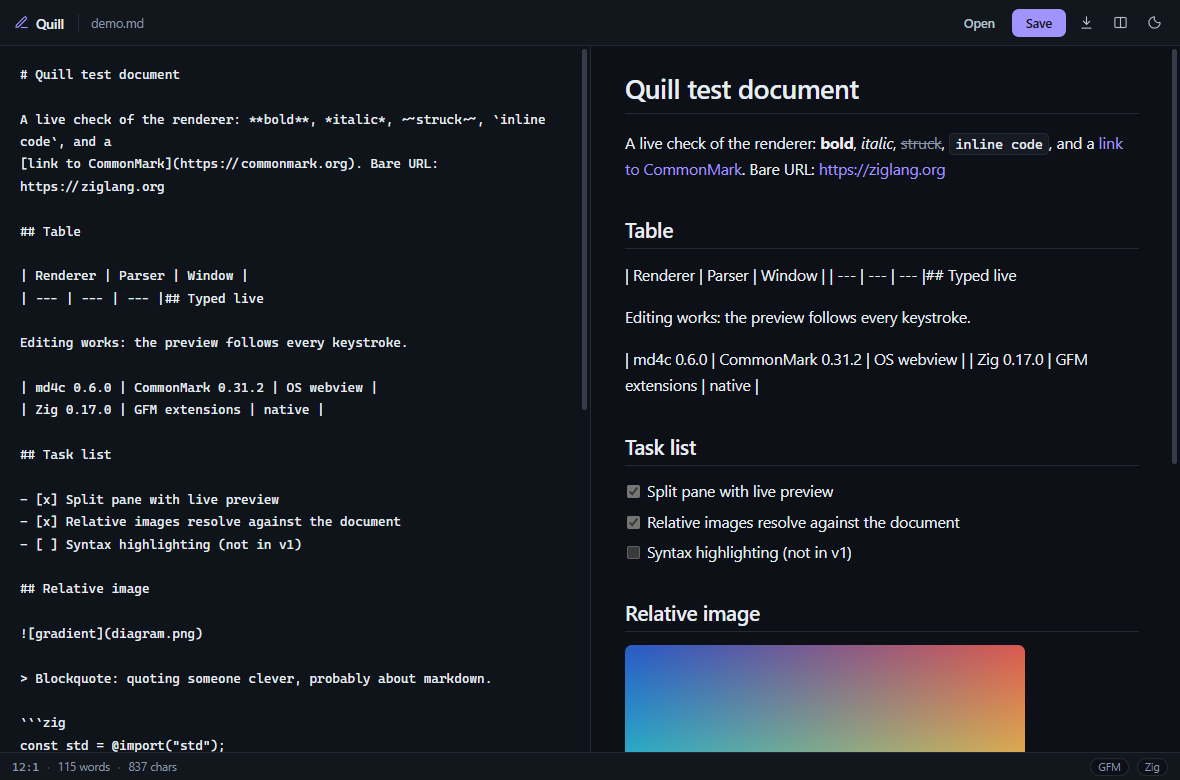
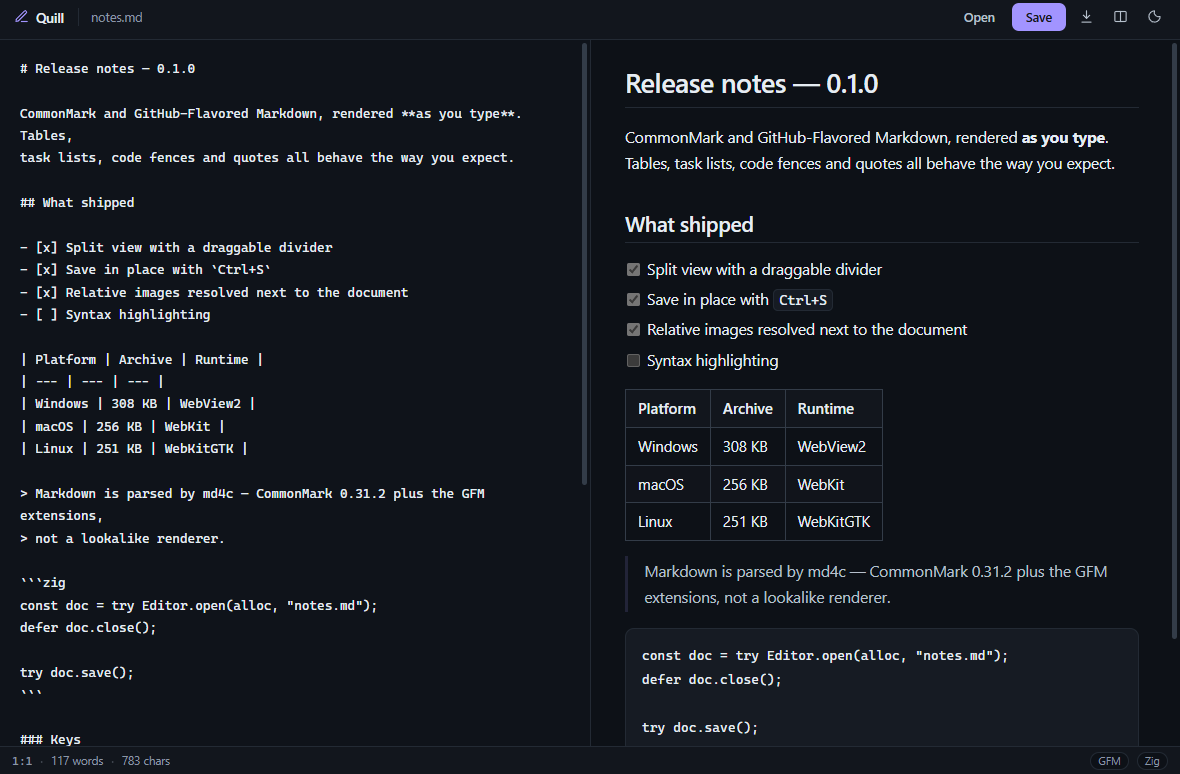
fix: derive modified state from the buffer; release 0.1.1
The dirty flag was event-driven, so an extra input event could mark a
just-opened document as modified. Compare against the saved snapshot instead.
Refreshes the README screenshot.

diff --git a/src/assets/app.js b/src/assets/app.js
@@ -150,9 +150,11 @@
     bridge.title(`${prefix}${state.name} — Quill`);
   }
 
-  function setDirty(value) {
-    state.dirty = value;
-    els.dirty.hidden = !value;
+  /// Dirty state is derived from the buffer, never tracked as a flag: a stray
+  /// input event can no longer mark an untouched document as modified.
+  function setDirty() {
+    state.dirty = state.savedText !== null && els.src.value !== state.savedText;
+    els.dirty.hidden = !state.dirty;
     setTitle();
   }
 
@@ -170,7 +172,7 @@
     els.docname.textContent = state.name;
     els.docname.title = path || `${state.name} (not saved to disk yet)`;
 
-    setDirty(false);
+    setDirty();
     state.lastRendered = null;
     updateStats();
     renderNow(true);
@@ -204,7 +206,7 @@
     try {
       await bridge.save(els.src.value);
       state.savedText = els.src.value;
-      setDirty(false);
+      setDirty();
       status(`saved ${state.name}`);
     } catch (err) {
       toast(`Could not save: ${err}`);
@@ -226,7 +228,7 @@
       a.remove();
     }, 1500);
     state.savedText = els.src.value;
-    setDirty(false);
+    setDirty();
     toast(`Exported a copy as ${suggested}`);
   }
 
@@ -264,7 +266,7 @@
   }
 
   function onInput() {
-    setDirty(els.src.value !== state.savedText);
+    setDirty();
     updateStats();
     scheduleRender();
   }

diff --git a/CHANGELOG.md b/CHANGELOG.md
@@ -2,6 +2,12 @@
 
 All notable changes to Quill. This project follows [Semantic Versioning](https://semver.org/).
 
+## [0.1.1] - 2026-10-24
+
+- Fix: modified state is derived from the buffer instead of an event flag, so a
+  freshly opened document no longer shows the unsaved marker.
+- Docs: refreshed the README screenshot.
+
 ## [0.1.0] - 2026-10-24
 
 First release.
@@ -16,4 +22,5 @@ First release.
 - Theme follows the system, with light/dark override and zoom.
 - Cross-compiles to Windows and Linux from any host; macOS builds on macOS.
 
+[0.1.1]: https://github.com/epicshawty/quill/releases/tag/v0.1.1
 [0.1.0]: https://github.com/epicshawty/quill/releases/tag/v0.1.0
